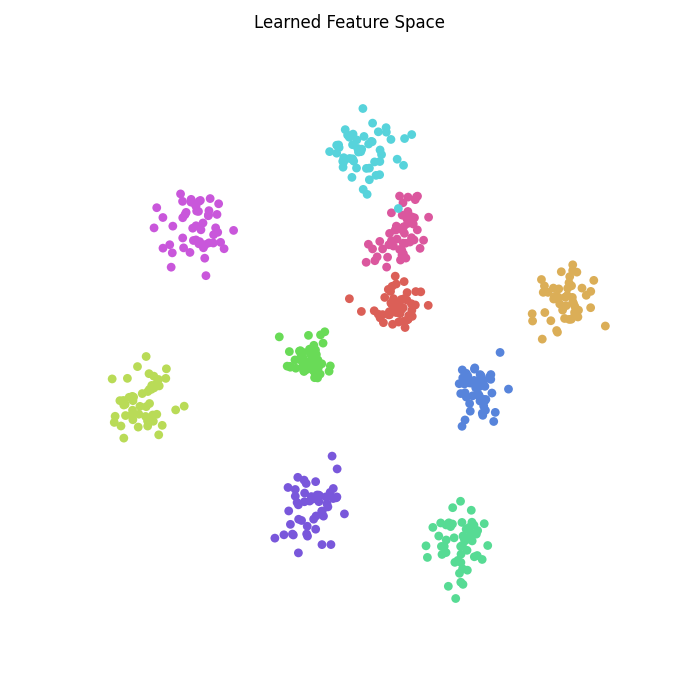
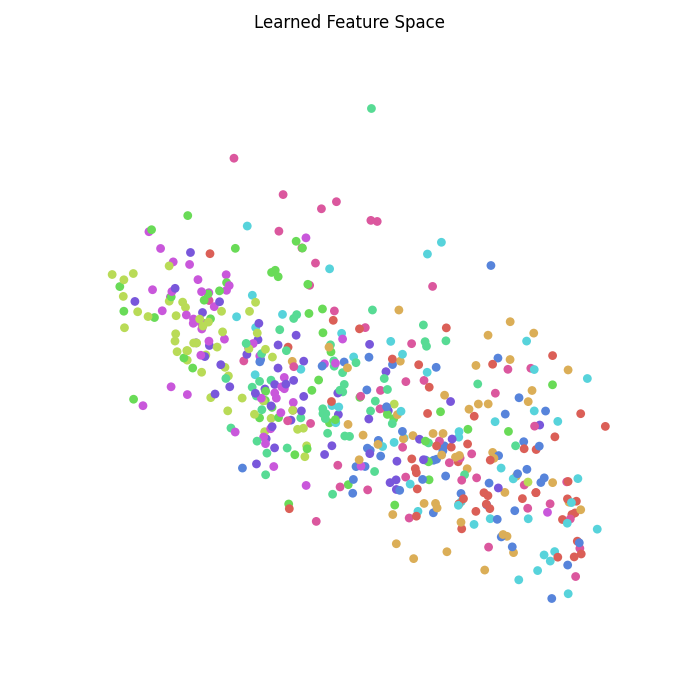
Feature Space working

diff --git a/example2.py b/example2.py
@@ -344,7 +344,7 @@ if K.image_data_format() == 'channels_first':
     x_train = x_train.reshape(x_train.shape[0], 1, x_train.shape[1])
     x_test = x_test.reshape(x_test.shape[0], 1, x_train.shape[1])
     x_train_ext = x_train_ext.reshape(x_train_ext.shape[0],N, 1, x_train.shape[1])
-    input_shape = (1, img_rows, img_cols)
+    input_shape = (1, x_train.shape[1])
 else:
     x_train = x_train.reshape(x_train.shape[0], x_train.shape[1], 1)
     x_test = x_test.reshape(x_test.shape[0], x_train.shape[1], 1)
@@ -386,7 +386,10 @@ if Triplets==True:
     #Declare the model
     model = Sequential()
 
-    model.add(Dense(1000, input_shape=input_shape, activation='relu', name='dens_1_class'))
+    # print('--------------------------------------->', input_shape)
+
+    model.add(Flatten(input_shape=input_shape))
+    model.add(Dense(1000, activation='relu', name='dens_1_class'))
     model.add(Dense(100, activation='relu', name='dens_2_class'))
     model.add(Dense(num_outputs, activation='linear', name='dens_3_class'))
 
@@ -438,13 +441,13 @@ if Triplets==True:
         restore_best_weights=True
     )
 
-    batch_size = 100
+    batch_size = 20 #100
     batches_per_epoch = 10#200 #500
     epochs = 1 #10
 
-    print(x_train_ext.shape)
+    # print(x_train_ext.shape)
     #print(x_train_ext)
-    print('---------------')
+    # print('---------------')
     history_Motion = siamese_model.fit_generator(data_generator_clusters(x_train_ext, batch_size,N, x_train.shape[1]),
                                                           steps_per_epoch = batches_per_epoch,
                                                           epochs = epochs,
@@ -453,14 +456,14 @@ if Triplets==True:
 
 
     #Plot the feature embedding
-    print(x_train.shape)
-    print(x_train[:1024].reshape(-1, x_train.shape[1],1).shape)
+    # print(x_train.shape)
+    # print(x_train[:1024].reshape(-1, x_train.shape[1],1).shape)
 
     trained_model = model
-    X_train_trm = trained_model.predict(x_train[:1024], verbose=1)
-    print(X_train_trm.shape)
-    print(y_train[:1024].shape)
-    print(X_train_trm[0])
+    X_train_trm = trained_model.predict(x_train[:1024])
+    # print(X_train_trm.shape)
+    # print(y_train[:1024].shape)
+    # print(X_train_trm[0])
     scatter(X_train_trm, y_train[:1024], "Learned Feature Space",M)
 
 
@@ -475,18 +478,23 @@ if Softmax==True:
     y_test_c = keras.utils.to_categorical(y_test, M)
 
     #Declare the model
-    model = Sequential()
-    model.add(Conv2D(32, kernel_size=(3, 3),
-                     activation='relu',
-                     input_shape=input_shape))
-    model.add(Conv2D(64, (3, 3), activation='relu'))
-    model.add(MaxPooling2D(pool_size=(2, 2)))
-    model.add(Dropout(0.5))
-    model.add(Flatten())
-    model.add(Dense(128, activation='relu'))
-    model.add(Dropout(0.5))
-    model.add(Dense(2, activation='linear', name='feature_layer'))
-    model.add(Dense(M, activation='softmax'))
+    # model = Sequential()
+    # model.add(Conv2D(32, kernel_size=(3, 3),
+    #                  activation='relu',
+    #                  input_shape=input_shape))
+    # model.add(Conv2D(64, (3, 3), activation='relu'))
+    # model.add(MaxPooling2D(pool_size=(2, 2)))
+    # model.add(Dropout(0.5))
+    # model.add(Flatten())
+    # model.add(Dense(128, activation='relu'))
+    # model.add(Dropout(0.5))
+    # model.add(Dense(2, activation='linear', name='feature_layer'))
+    # model.add(Dense(M, activation='softmax'))
+
+    model.add(Flatten(input_shape=input_shape))
+    model.add(Dense(1000, activation='relu', name='dens_1_class'))
+    model.add(Dense(100, activation='relu', name='dens_2_class'))
+    model.add(Dense(num_outputs, activation='softmax', name='dens_3_class'))
 
 
     model.compile(loss=keras.losses.categorical_crossentropy,

diff --git a/quick_draw/example2.py b/quick_draw/example2.py
@@ -313,8 +313,6 @@ x_train_ext /= 255
 print(x_train.shape)
 print(x_test.shape)
 
-print(a)
-
 
 Triplets=True
 if Triplets==True:          
@@ -353,6 +351,8 @@ if Triplets==True:
     siamese_model = Model(inputs_siamese, outputs_siamese)
     siamese_model.add_loss(K.sum(contrastive_loss_triplet(outputs_siamese)))    
     siamese_model.compile(loss= None, optimizer='Adam', metrics=["accuracy"])
+
+    siamese_model.summary()
       
     
     #%% Train
@@ -366,9 +366,9 @@ if Triplets==True:
         restore_best_weights=True
     )
     
-    batch_size = 256
-    batches_per_epoch = 200 #500
-    epochs = 10
+    batch_size = 100
+    batches_per_epoch = 10#200 #500
+    epochs = 1 #10
     history_Motion = siamese_model.fit_generator(data_generator_clusters(x_train_ext, batch_size,N),
                                                           steps_per_epoch = batches_per_epoch,
                                                           epochs = epochs,                               
@@ -379,7 +379,11 @@ if Triplets==True:
     #Plot the feature embedding
     trained_model = model
     X_train_trm = trained_model.predict(x_train[:1024].reshape(-1,28,28,1))
+    print(X_train_trm.shape)
+    print(y_train[:1024].shape)
+    print(X_train_trm[0])
     scatter(X_train_trm, y_train[:1024], "Learned Feature Space",M)    
+
         
     
      
